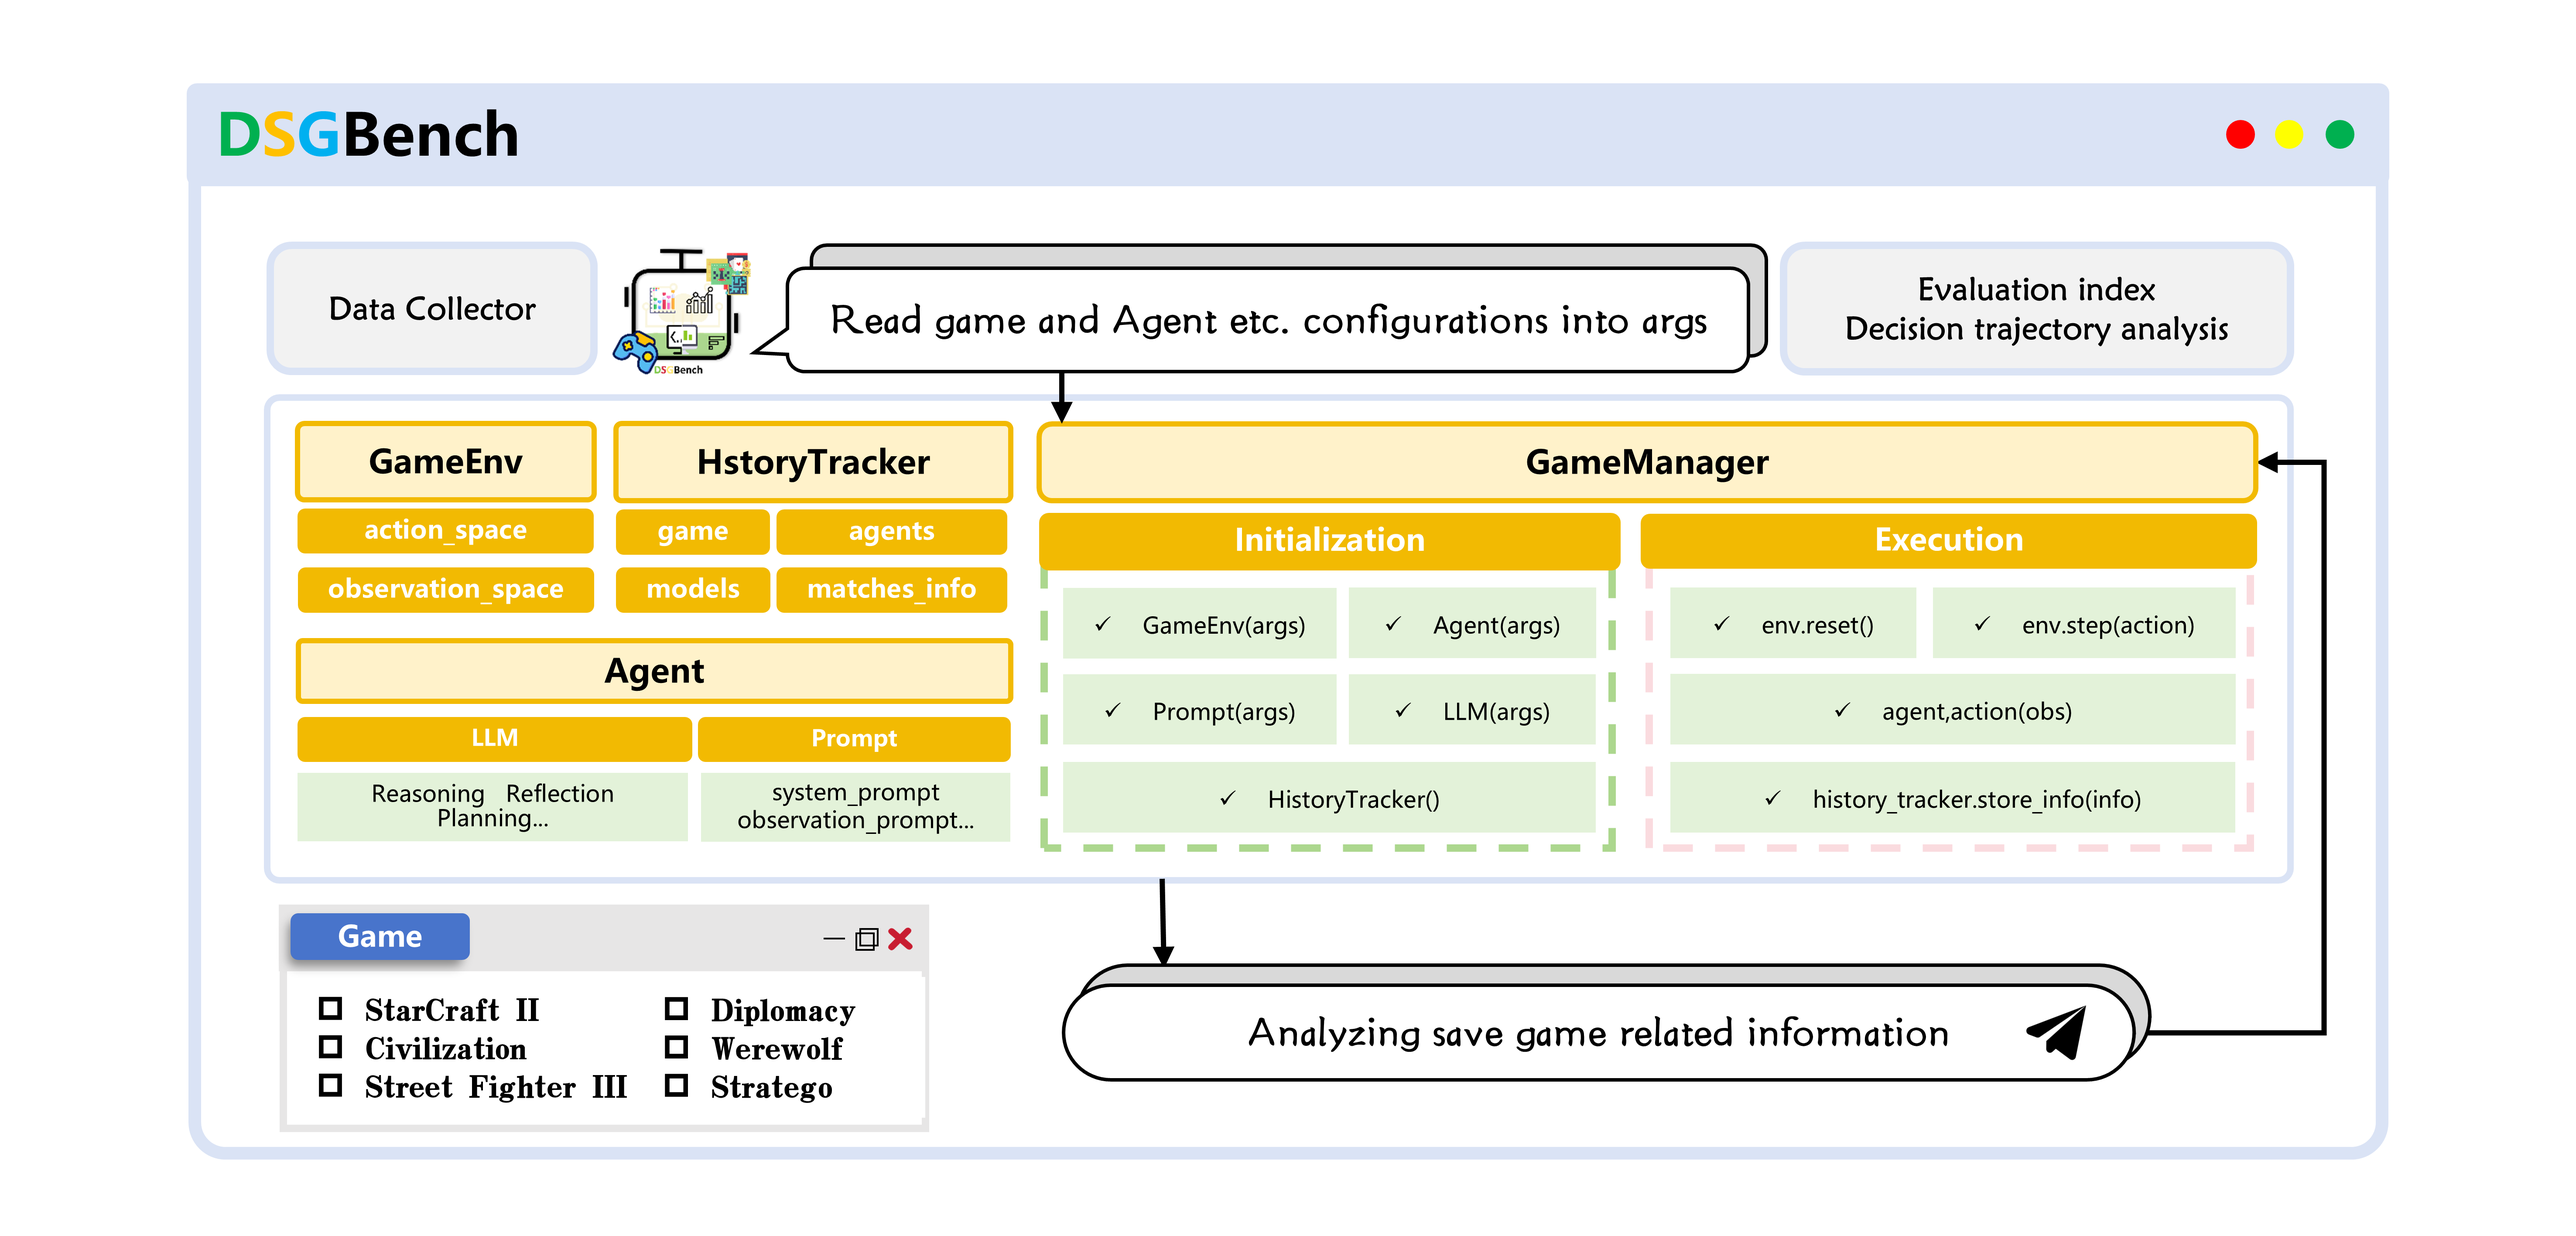
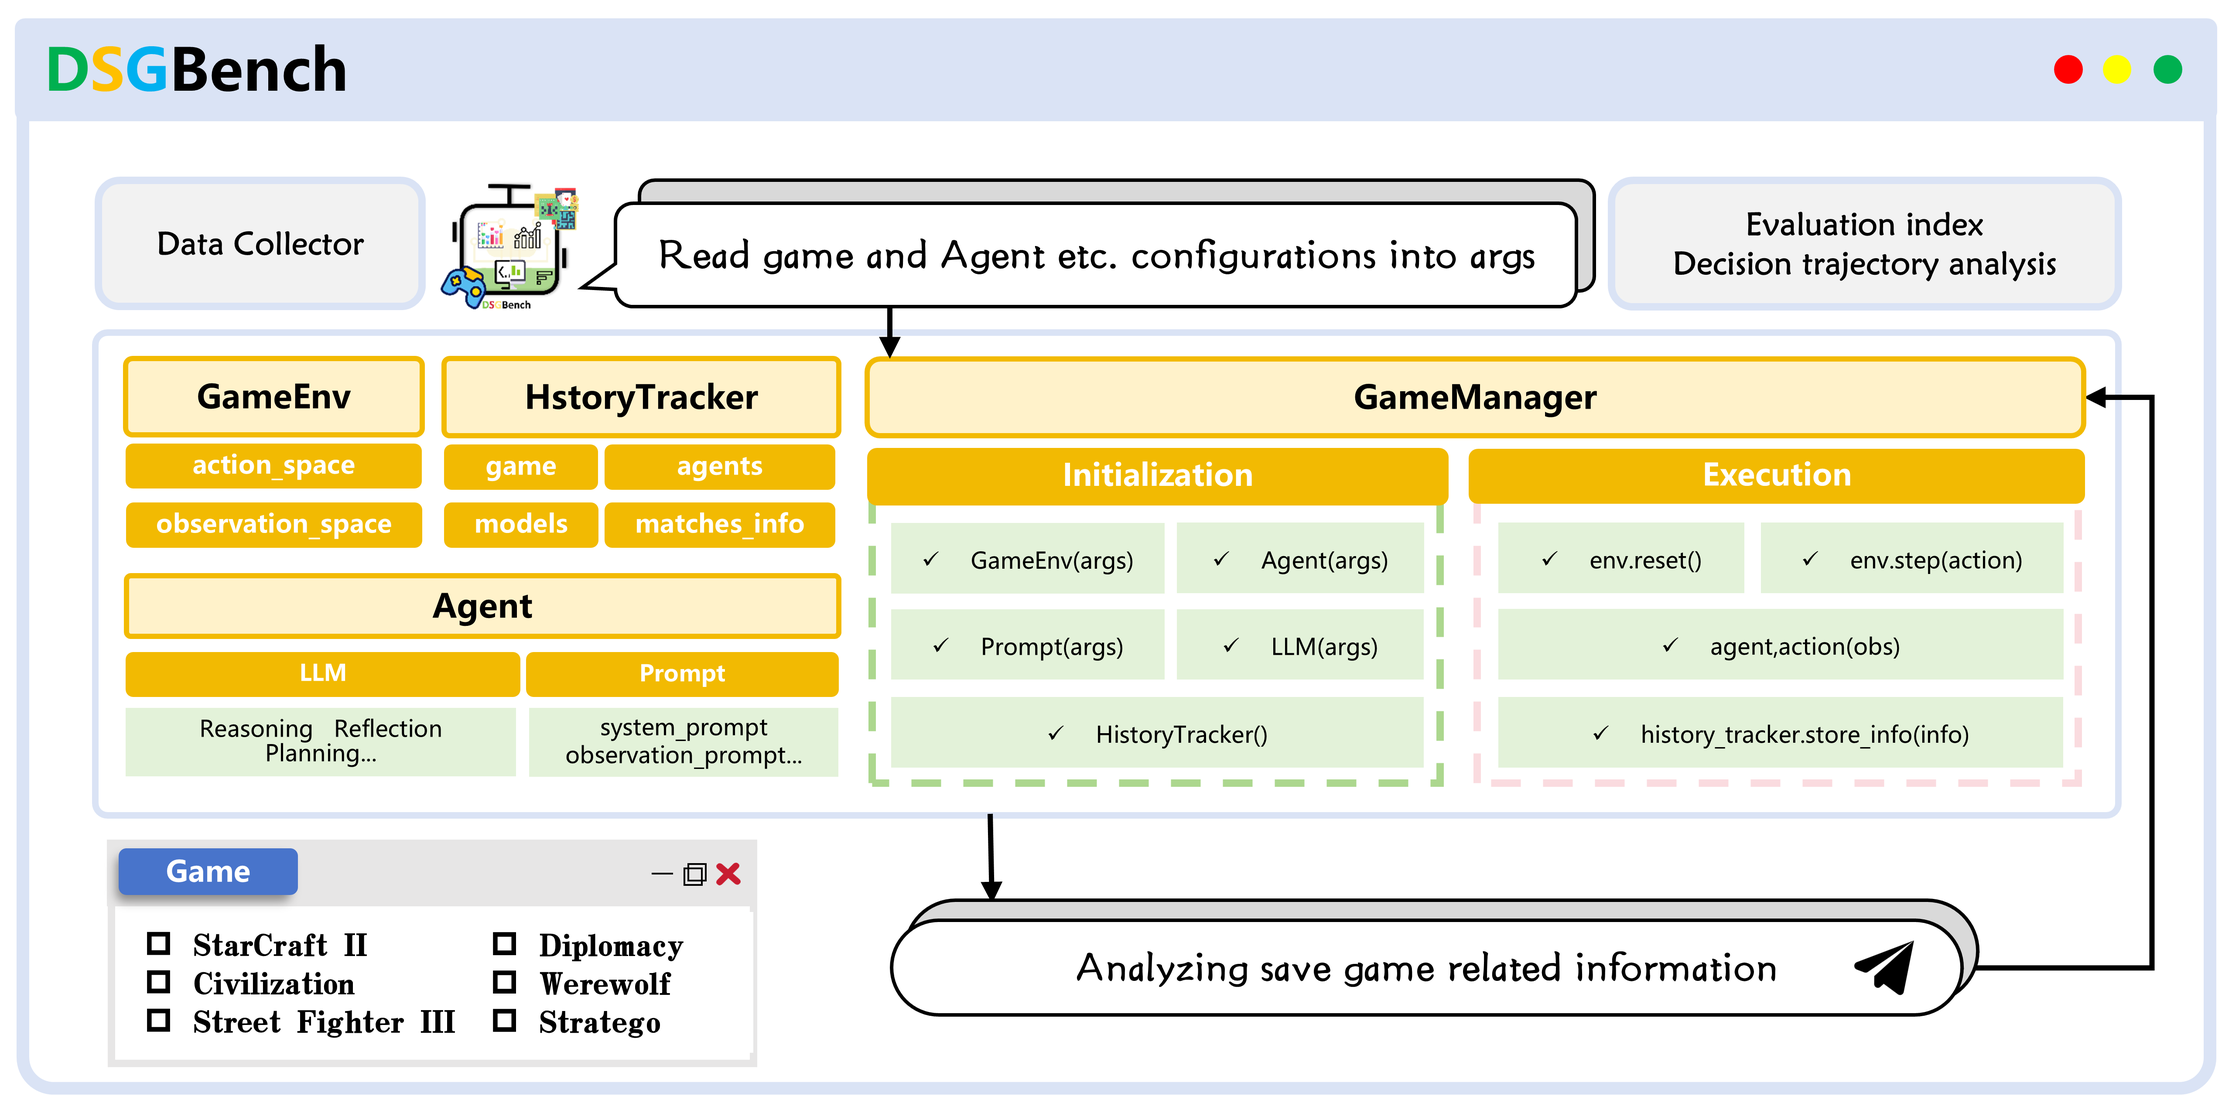
Update DSGBench info

diff --git a/index.html b/index.html
@@ -26,7 +26,7 @@
 
 
   <title>DSGBench Project Page</title>
-  <link rel="icon" type="image/x-icon" href="static/images/favicon.ico">
+  <link rel="icon" type="image/png" href="static/images/logo.png">
   <link href="https://fonts.googleapis.com/css?family=Google+Sans|Noto+Sans|Castoro" rel="stylesheet">
 
   <link rel="stylesheet" href="static/css/bulma.min.css">
@@ -53,6 +53,9 @@
         <div class="columns is-centered">
           <div class="column has-text-centered">
             <h1 class="title is-1 publication-title">
+              <div style="display: inline-block; vertical-align: middle; margin-right: 15px;">
+                <img src="static/images/logo.png" alt="DSGBench Logo" style="height: 50px; width: auto;">
+              </div>
               <span style="color: rgb(0, 176, 80);">D</span><span style="color: rgb(250, 196, 34);">S</span><span
                 style="color: rgb(0, 176, 240);">G</span>Bench: A
               <span style="color: rgb(0, 176, 80);">D</span>iverse
@@ -93,23 +96,12 @@
               <div class="publication-links">
                 <!-- Arxiv PDF link -->
                 <span class="link-block">
-                  <a href="https://arxiv.org/pdf/<ARXIV PAPER ID>.pdf" target="_blank"
+                  <a href="https://arxiv.org/pdf/2503.06047.pdf" target="_blank"
                     class="external-link button is-normal is-rounded is-dark">
                     <span class="icon">
                       <i class="fas fa-file-pdf"></i>
                     </span>
                     <span>Paper</span>
-                  </a>
-                </span>
-
-                <!-- Supplementary PDF link -->
-                <span class="link-block">
-                  <a href="static/pdfs/supplementary_material.pdf" target="_blank"
-                    class="external-link button is-normal is-rounded is-dark">
-                    <span class="icon">
-                      <i class="fas fa-file-pdf"></i>
-                    </span>
-                    <span>Supplementary</span>
                   </a>
                 </span>
 
@@ -124,9 +116,22 @@
                   </a>
                 </span>
 
+                <!-- Supplementary PDF link -->
+                <span class="link-block">
+                  <a href="https://huggingface.co/spaces/Decix/DSGBench" target="_blank"
+                    class="external-link button is-normal is-rounded is-dark">
+                    <span class="icon">
+                      <img src="static/images/huggingface.png" alt="HuggingFace" style="width: 18px; height: 18px;">
+                    </span>
+                    <span>HuggingFace</span>
+                  </a>
+                </span>
+
+
+
                 <!-- ArXiv abstract Link -->
                 <span class="link-block">
-                  <a href="https://arxiv.org/abs/<ARXIV PAPER ID>" target="_blank"
+                  <a href="https://arxiv.org/abs/2503.06047" target="_blank"
                     class="external-link button is-normal is-rounded is-dark">
                     <span class="icon">
                       <i class="ai ai-arxiv"></i>
@@ -139,24 +144,6 @@
           </div>
         </div>
   </section>
-
-
-  <!-- Teaser video-->
-  <section class="hero teaser">
-    <div class="container is-max-desktop">
-      <div class="hero-body">
-        <video poster="" id="tree" autoplay controls muted loop height="100%">
-          <!-- Your video here -->
-          <source src="static/videos/banner_video.mp4" type="video/mp4">
-        </video>
-        <h2 class="subtitle has-text-centered">
-          Aliquam vitae elit ullamcorper tellus egestas pellentesque. Ut lacus tellus, maximus vel lectus at, placerat
-          pretium mi. Maecenas dignissim tincidunt vestibulum. Sed consequat hendrerit nisl ut maximus.
-        </h2>
-      </div>
-    </div>
-  </section>
-  <!-- End teaser video -->
 
   <!-- Paper abstract -->
   <section class="section hero is-light">
@@ -189,77 +176,98 @@
   <!-- End paper abstract -->
 
 
-  <!-- Image carousel -->
+  <!-- Overview section -->
   <section class="hero is-small">
     <div class="hero-body">
       <div class="container">
-        <div id="results-carousel" class="carousel results-carousel">
-          <div class="item">
-            <div style="width: 100%; max-width: 1000px; margin: 0 auto;">
-              <img src="static/images/Overview.png" alt="Overview of DSGBench"
-                style="width: 100%; height: auto; object-fit: contain; border-radius: 10px; box-shadow: 0 4px 8px rgba(0,0,0,0.1);" />
-              <h2 class="subtitle has-text-centered"
-                style="margin-top: 20px; font-size: 1rem; line-height: 1.5; max-width: 90%; margin-left: auto; margin-right: auto;">
-                The overall framework of DSGBench. The framework consists of (1) a multi-game environment supporting
-                both
-                asynchronous and synchronous interactions; (2) fine-grained capability metrics for strategic planning,
-                real-time decision-making, and team collaboration; and (3) decision trajectory tracking tools that
-                collaboratively analyze agents' decision-making processes. Through observation-to-prompt and
-                response-to-action loops, DSGBench enables systematic evaluation of LLM-based agents in dynamic,
-                multi-agent scenarios.
-              </h2>
-            </div>
+        <div style="width: 100%; max-width: 1000px; margin: 0 auto;">
+          <img src="static/images/Overview.png" alt="Overview of DSGBench"
+            style="width: 100%; height: auto; object-fit: contain; border-radius: 10px; box-shadow: 0 4px 8px rgba(0,0,0,0.1);" />
+          <h2 class="subtitle has-text-centered"
+            style="margin-top: 20px; font-size: 1rem; line-height: 1.5; max-width: 90%; margin-left: auto; margin-right: auto;">
+            The overall framework of DSGBench. The framework consists of (1) a multi-game environment supporting both
+            asynchronous and synchronous interactions; (2) fine-grained capability metrics for strategic planning,
+            real-time decision-making, and team collaboration; and (3) decision trajectory tracking tools that
+            collaboratively analyze agents' decision-making processes. Through observation-to-prompt and
+            response-to-action loops, DSGBench enables systematic evaluation of LLM-based agents in dynamic,
+            multi-agent scenarios.
+          </h2>
+        </div>
+      </div>
+    </div>
+  </section>
+
+  <!-- Code Architecture section -->
+  <section class="section hero is-light">
+    <div class="container is-max-desktop">
+      <div class="columns is-centered has-text-centered">
+        <div class="column is-four-fifths">
+          <h2 class="title is-3">Code Architecture of DSGBench</h2>
+          <div class="content has-text-justified">
+            <p>
+              The evaluation framework is an automated and simplified platform designed to evaluate LLM-based agents
+              uniformly. The main component of the framework is the <strong>GameManager</strong>, which coordinates the
+              initialization and execution phases. It is responsible for configuring the environment and the agent,
+              ensuring a smooth game flow and accurately tracking the decision trajectory. The process starts with the
+              <strong>DataCollector</strong>, which is responsible for collecting the basic configuration of the game
+              and
+              the agent, laying the foundation for accurate evaluation. This data is then fed into the modules
+              <strong>GameEnv</strong> and <strong>HistoryTracker</strong>. While the former manages the action and
+              observation space and enables seamless interaction between the agent and its environment, the latter
+              captures the detailed game history and allows for in-depth analysis of the decision-making process and
+              strategic choices.
+            </p>
           </div>
-          <div class="item">
-            <!-- Your image here -->
-            <img src="static/images/carousel2.jpg" alt="MY ALT TEXT" />
-            <h2 class="subtitle has-text-centered">
-              Second image description.
-            </h2>
-          </div>
-          <div class="item">
-            <!-- Your image here -->
-            <img src="static/images/carousel3.jpg" alt="MY ALT TEXT" />
-            <h2 class="subtitle has-text-centered">
-              Third image description.
-            </h2>
-          </div>
-          <div class="item">
-            <!-- Your image here -->
-            <img src="static/images/carousel4.jpg" alt="MY ALT TEXT" />
-            <h2 class="subtitle has-text-centered">
-              Fourth image description.
-            </h2>
+          <div style="display: flex; justify-content: center; align-items: center; margin: 0 -20%;">
+            <img src="static/images/Code_Architecture.png" alt="Code Architecture of DSGBench"
+              style="width: 100%; height: auto; object-fit: contain; border-radius: 10px; box-shadow: 0 4px 8px rgba(0,0,0,0.1);" />
           </div>
         </div>
       </div>
     </div>
   </section>
-  <!-- End image carousel -->
 
-
-
-
-  <!-- Youtube video -->
-  <section class="hero is-small is-light">
+  <!-- Main Results section -->
+  <section class="hero is-small">
     <div class="hero-body">
       <div class="container">
-        <!-- Paper video. -->
-        <h2 class="title is-3">Video Presentation</h2>
-        <div class="columns is-centered has-text-centered">
-          <div class="column is-four-fifths">
+        <div style="width: 100%; max-width: 1000px; margin: 0 auto;">
+          <h2 class="title is-3 has-text-centered">Main Results</h2>
+          <img src="static/images/Results.png" alt="Main Results of DSGBench"
+            style="width: 100%; height: auto; object-fit: contain; border-radius: 10px; box-shadow: 0 4px 8px rgba(0,0,0,0.1);" />
+          <h2 class="subtitle has-text-centered"
+            style="margin-top: 20px; font-size: 1rem; line-height: 1.5; max-width: 90%; margin-left: auto; margin-right: auto;">
+          </h2>
+        </div>
+      </div>
+    </div>
+  </section>
 
-            <div class="publication-video">
-              <!-- Youtube embed code here -->
-              <iframe src="https://www.youtube.com/embed/JkaxUblCGz0" frameborder="0" allow="autoplay; encrypted-media"
-                allowfullscreen></iframe>
-            </div>
+  <!-- Conclusion section -->
+  <section class="section hero is-light">
+    <div class="container is-max-desktop">
+      <div class="columns is-centered has-text-centered">
+        <div class="column is-four-fifths">
+          <h2 class="title is-3">Conclusion</h2>
+          <div class="content has-text-justified">
+            <p>
+              We introduce DSGBench, a comprehensive benchmark designed to evaluate the strategic decision-making
+              capabilities of LLM-based agents in diverse and dynamic gaming environments. For the first time, we assess
+              LLM-based agents based on key cognitive decision-making dimensions from human cognition and propose an
+              integrated evaluation approach. Under standardized settings, we systematically evaluate the performance of
+              six representative LLM-based agents in complex strategic environments. Through fine-grained evaluation
+              metrics and decision trajectory analysis, we reveal the strengths and weaknesses of agents in various
+              scenarios. Experimental results show significant differences across multiple ability dimensions.
+              Additionally, we have established a unified evaluation framework that supports the integration of new
+              games and the customization and expansion of new game scenarios. We hope that DSGBench will see widespread
+              application, as gaming itself is an evolving process. Agents can continuously learn and evolve through
+              interaction with opponents, making game-based evaluation methods virtually limitless in potential.
+            </p>
           </div>
         </div>
       </div>
     </div>
   </section>
-  <!-- End youtube video -->
 
 
   <!-- Video carousel -->
@@ -270,20 +278,20 @@
         <div id="results-carousel" class="carousel results-carousel">
           <div class="item item-video1">
             <video poster="" id="video1" autoplay controls muted loop height="100%"> -->
-              <!-- Your video file here -->
-              <!-- <source src="static/videos/carousel1.mp4" type="video/mp4">
+  <!-- Your video file here -->
+  <!-- <source src="static/videos/carousel1.mp4" type="video/mp4">
             </video>
           </div>
           <div class="item item-video2">
             <video poster="" id="video2" autoplay controls muted loop height="100%"> -->
-              <!-- Your video file here -->
-              <!-- <source src="static/videos/carousel2.mp4" type="video/mp4">
+  <!-- Your video file here -->
+  <!-- <source src="static/videos/carousel2.mp4" type="video/mp4">
             </video>
           </div>
           <div class="item item-video3">
             <video poster="" id="video3" autoplay controls muted loop height="100%">\ -->
-              <!-- Your video file here -->
-              <!-- <source src="static/videos/carousel3.mp4" type="video/mp4">
+  <!-- Your video file here -->
+  <!-- <source src="static/videos/carousel3.mp4" type="video/mp4">
             </video>
           </div>
         </div>
@@ -312,11 +320,19 @@
   <!--End paper poster -->
 
 
-  <!--BibTex citation -->
+  <!--BibTeX citation -->
   <section class="section" id="BibTeX">
     <div class="container is-max-desktop content">
       <h2 class="title">BibTeX</h2>
-      <pre><code>BibTex Code Here</code></pre>
+      <pre><code>@misc{tang2025dsgbenchdiversestrategicgame,
+    title={DSGBench: A Diverse Strategic Game Benchmark for Evaluating LLM-based Agents in Complex Decision-Making Environments}, 
+    author={Wenjie Tang and Yuan Zhou and Erqiang Xu and Keyan Cheng and Minne Li and Liquan Xiao},
+    year={2025},
+    eprint={2503.06047},
+    archivePrefix={arXiv},
+    primaryClass={cs.AI},
+    url={https://arxiv.org/abs/2503.06047}, 
+}</code></pre>
     </div>
   </section>
   <!--End BibTex citation -->
